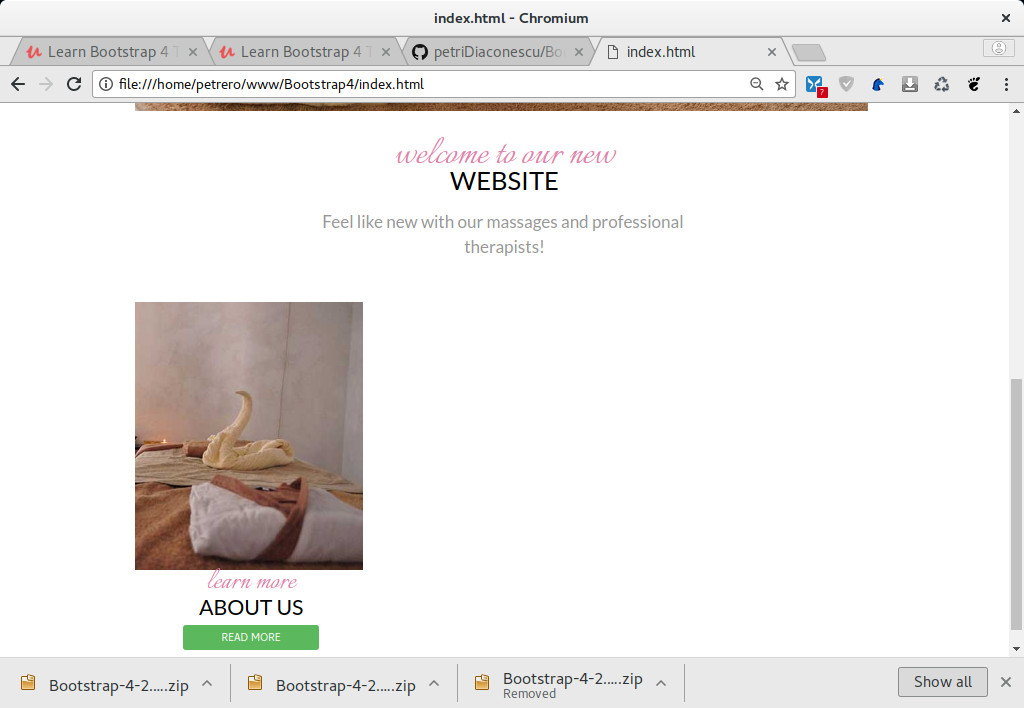
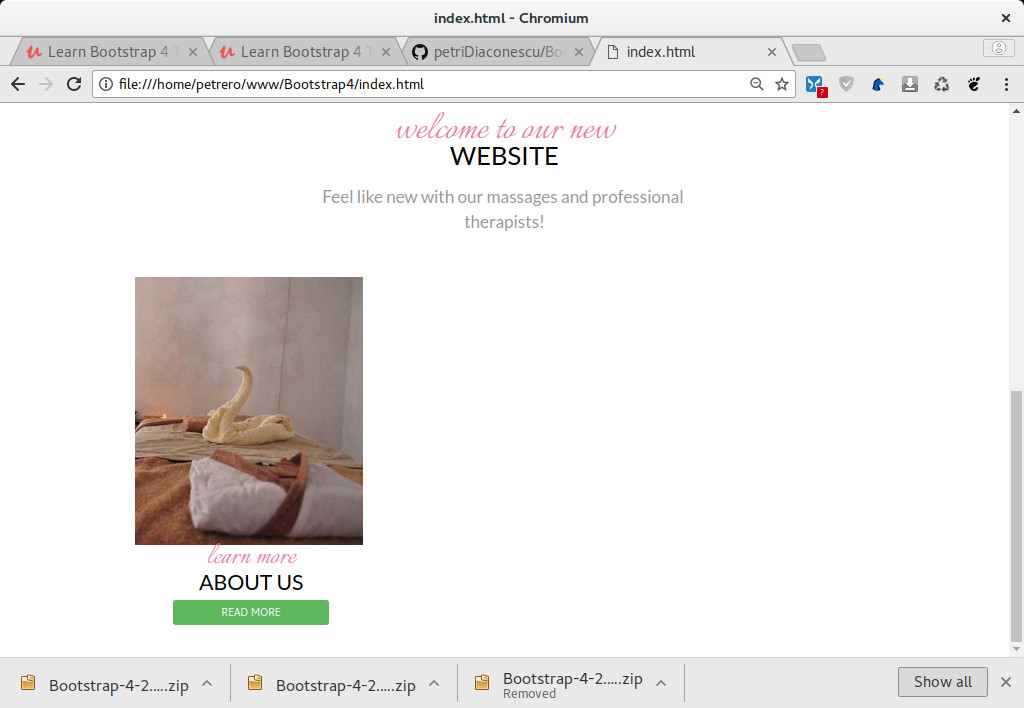
Apply a breathing space at the top of the link

diff --git a/index.html b/index.html
@@ -118,7 +118,7 @@
             <div class="row no-gutters">
               <div class="col-8 offset-2 image-info">
                 <h3 class="text-center text-uppercase"><span class="text-lowercase">learn more</span>About Us</h3>
-                <a href="" class="btn btn-success text-uppercase btn-block">read more</a>
+                <a href="" class="btn btn-success text-uppercase btn-block mt-4">read more</a>
               </div>
             </div>  
           </div>
